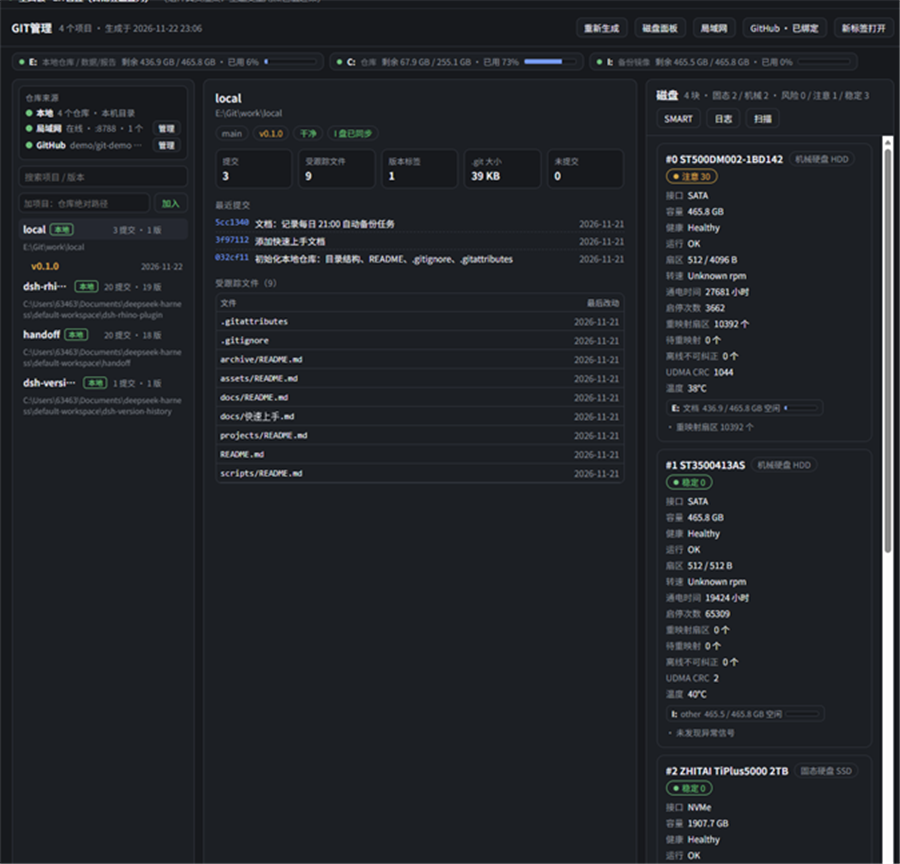
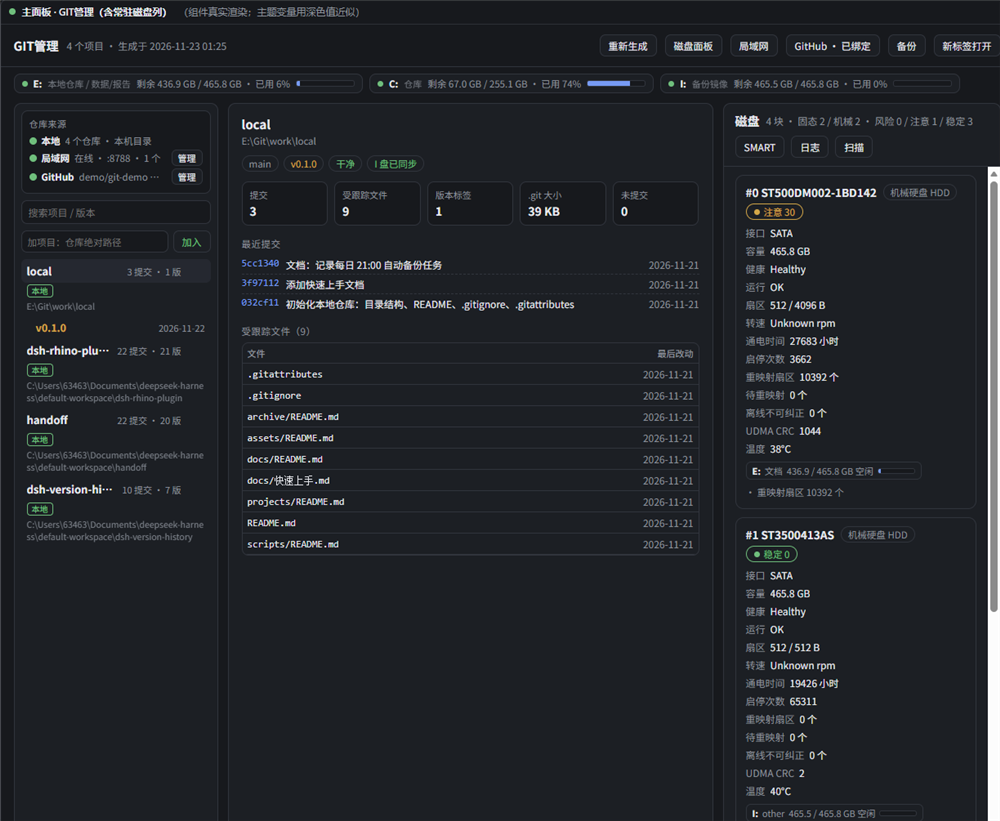
0.1.9: README 增补从 Release tarball 安装 + 截图更新到当前界面

Changed region(s): [[0.3733, 0.0, 1.0, 1.0], [0.0, 0.0, 0.5911, 0.6699]]

diff --git a/CHANGELOG.md b/CHANGELOG.md
@@ -3,6 +3,16 @@
 All notable changes to this plugin. Versions follow the git tags in this repo;
 each tag has a matching GitHub Release with an installable tarball.
 
+## 0.1.9
+
+- **README 增补「从 Release 的 tarball 安装」**（方式 A）：下载 `dsh-version-history-<版本>.tgz`
+  → `tar -xzf` 解出 `package/` → `plugin_manager install_bundle target=<package 目录>` →
+  `set_plugin false → true` 重载 host half。另附「怎么确认装的是哪个版本」
+  （看已装目录 `package.json` 的 `version`；`/version-history/health` 只回生效路径、不回版本号）。
+- **README 截图更新到当前界面**：`docs/screenshots/panel-main.png`（三栏 + 磁盘列，
+  顶栏此时已有 `备份`、`GitHub · 已绑定`，左栏仓库行带 `GitHub 已同步` 徽章）、
+  `panel-github.png`（GitHub 绑定卡片）。两张都由 `render-preview.mjs` 渲染真实组件树后截取。
+
 ## 0.1.8
 
 - **修「点 GitHub 管理会出右侧黑边」**：主面板顶栏（磁盘面板 / 局域网 / GitHub）与左栏来源卡的按钮
